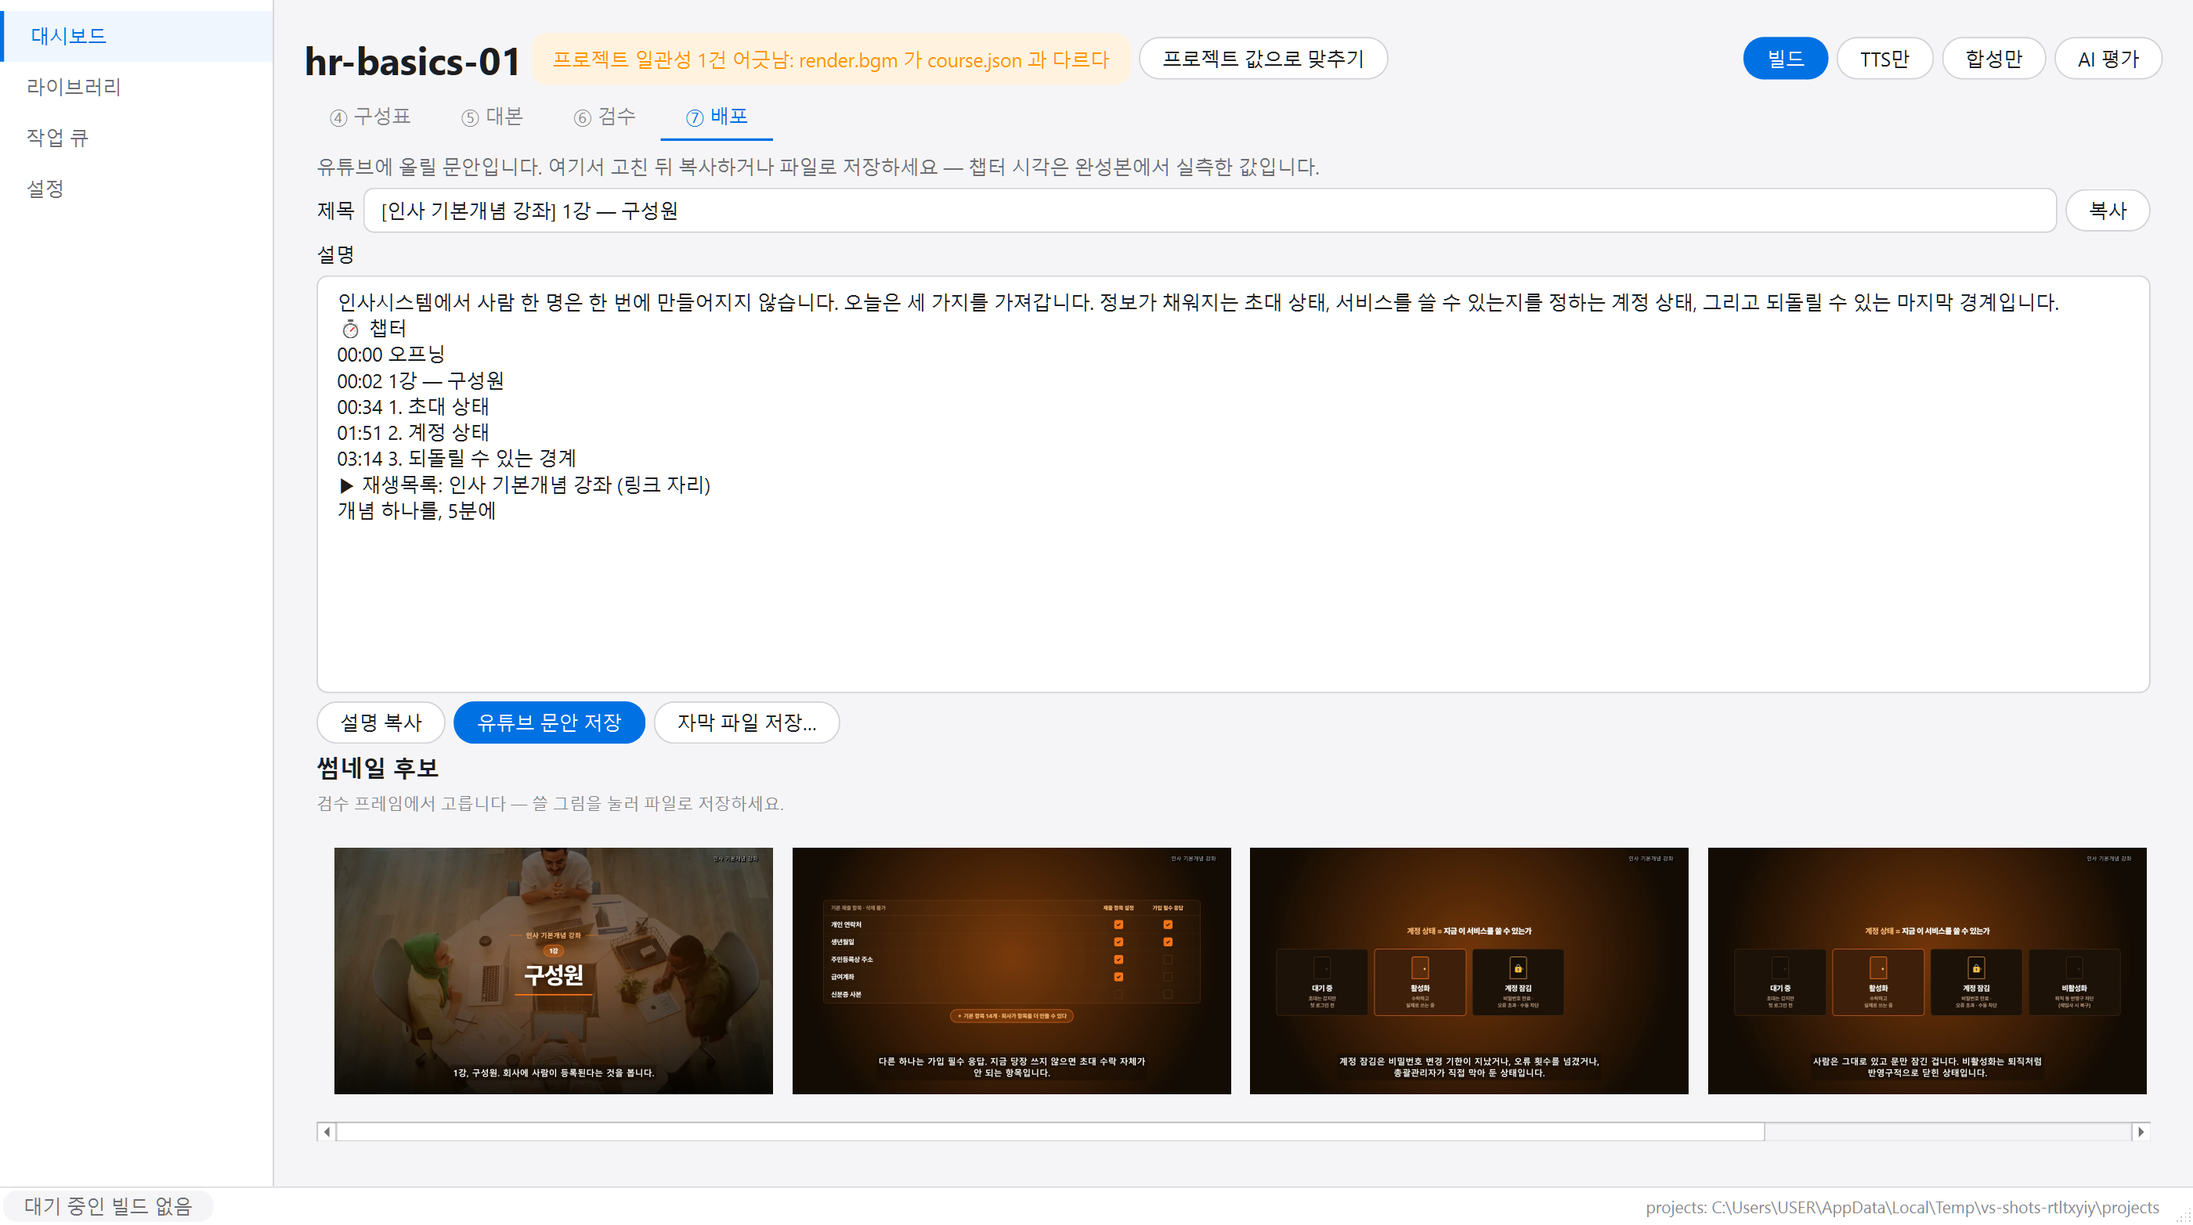
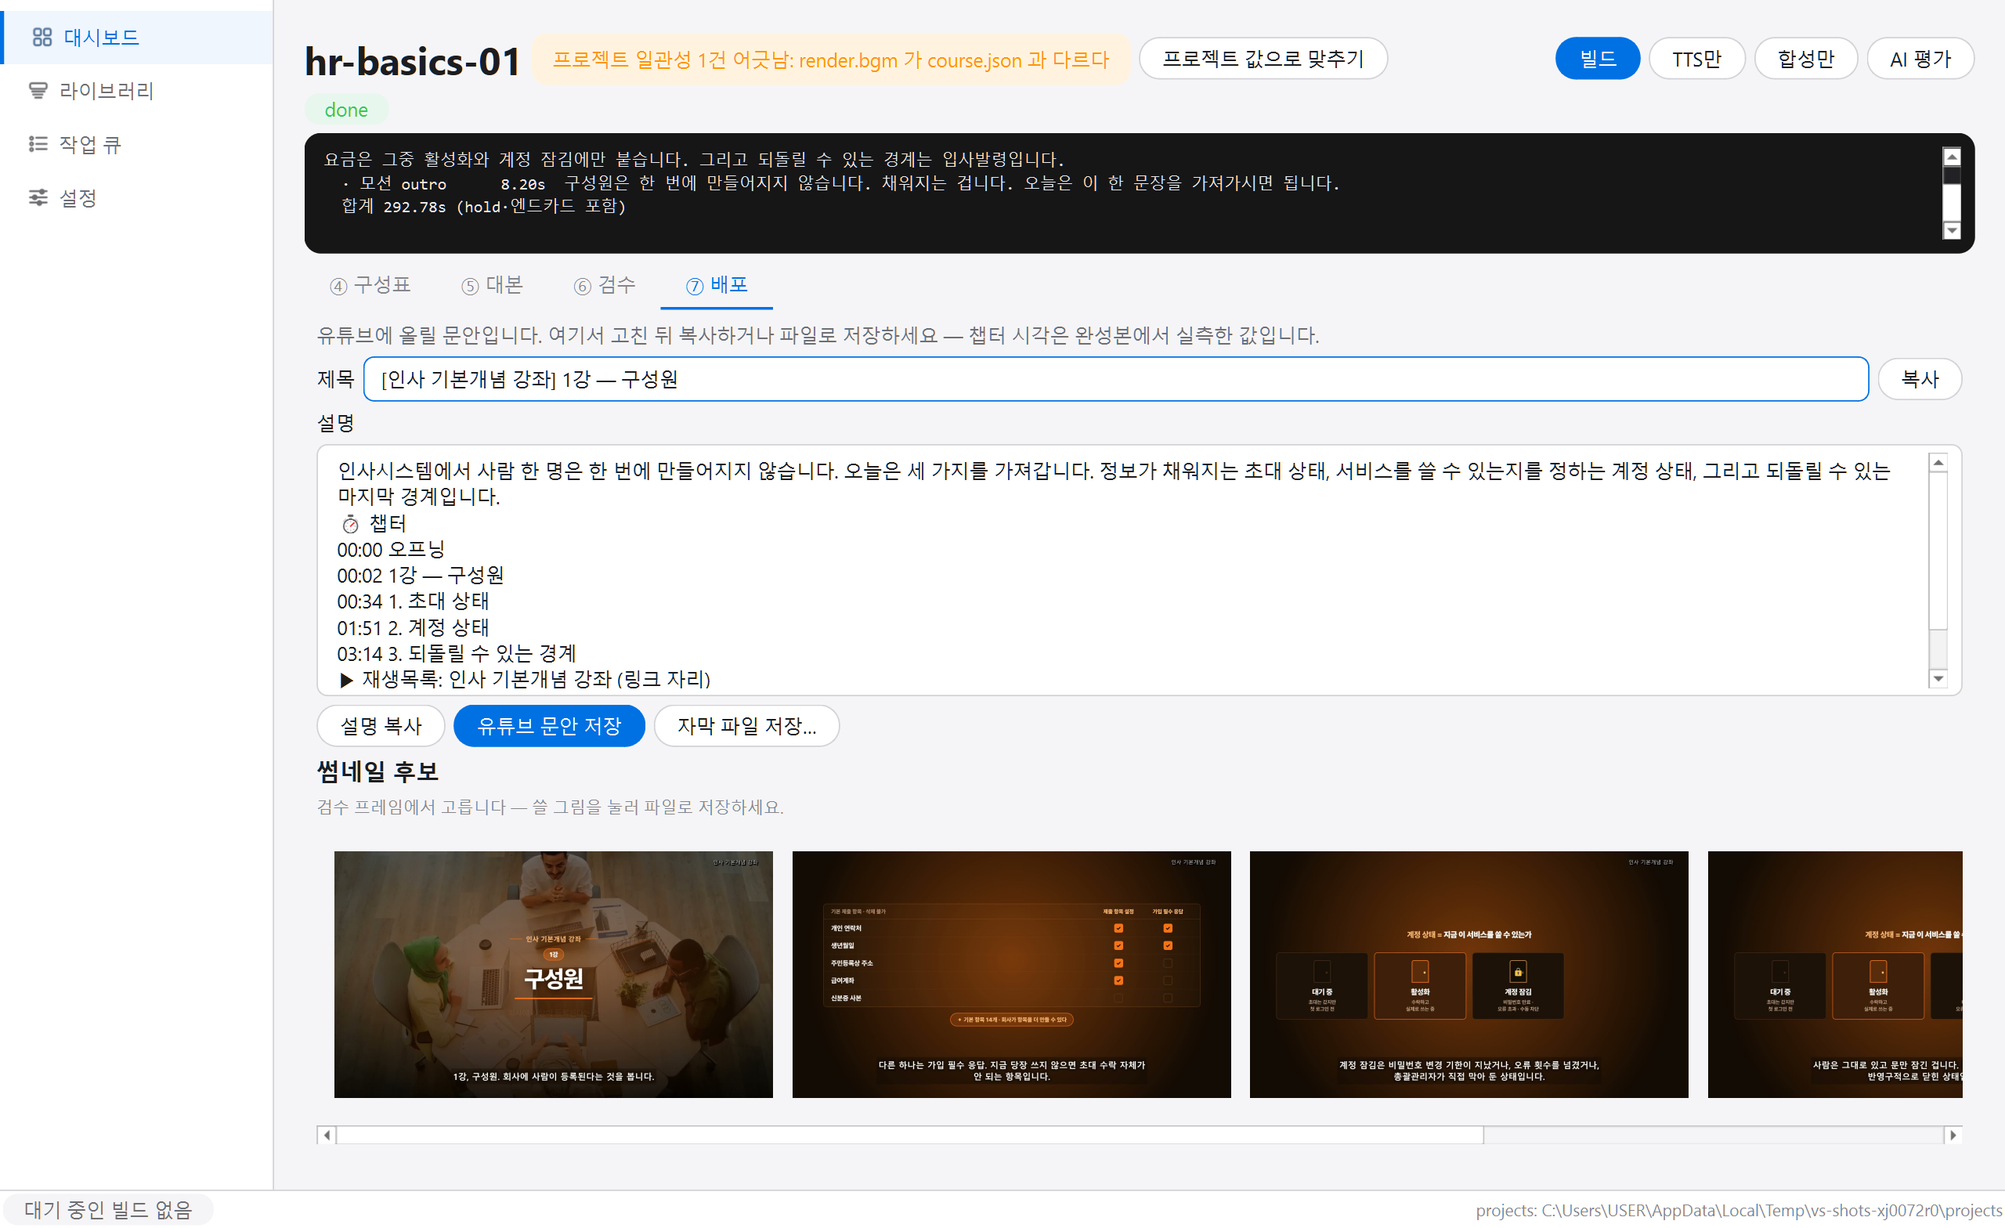
색 선택 대화상자 물듦 수정 + 아이콘 신설
## 색 선택 대화상자가 고르는 색으로 칠해졌다 (사용자 지적)

배경색(#0b1220)을 고르려고 열면 대화상자 전체가 그 색이 돼 글자가 안 보였고,
보조색(#a9c6ff)을 고르면 전체가 연파랑이 됐다. 원인 둘이 겹쳤다:

  1. `ColorButton.set_value` 가 `setStyleSheet("background: <색>")` 를 **선택자 없이** 걸었다.
     Qt 스타일시트는 자식 위젯으로 전파되므로 선택자 없는 규칙은 후손 전부에 적용된다.
  2. `QColorDialog.getColor(..., self)` — 부모가 그 버튼이라 대화상자가 후손이 됐다.

선택자를 붙이고(`ColorButton { ... }`) 부모를 `self.window()` 로 바꿨다. 색 피커는
버튼의 자식이 아니라 창 수준 모달이다.

같은 함정이 브랜드 킷 프리뷰에도 있었다 — 자식 라벨(kicker·title)을 가진 QFrame 에
선택자 없이 배경을 칠하고 있었다. 지금은 우연히 같은 색이라 티가 안 났을 뿐이다.

## 아이콘 — 코드로 그린다

이모지는 OS 폰트가 제각각으로 그려 08 §5 가 금지하고 테스트가 막는다. 그래서
아이콘이 필요해지면 답은 **QPainter 로 직접 그리기**다 (`app/icons.py`):
어느 PC 에서나 같은 그림이고, 색을 인자로 받고, 동결본에 넣을 파일이 없다.

  내비      대시보드(격자)·라이브러리(겹친 판)·작업 큐(점+줄)·설정(슬라이더)
  프로젝트  **그 프로젝트의 브랜드 색으로 칠한 필름 + 재생 삼각형**
            시리즈면 두 장을 겹쳐 '여러 편'을 드러낸다

색이 곧 프로젝트 정체성이라(팔레트가 타이틀 카드에 그대로 쓰인다) 목록에서 색만 보고
알아본다. `list_courses` 가 `brand`·`kind` 를 함께 준다.

함정 하나: `setDevicePixelRatio` 를 준 QPixmap 은 **논리 좌표가 이미 size** 다.
여기에 ratio 를 또 곱하면 두 배로 그려져 잘린다 (첫 렌더에서 실측).

pytest 141

diff --git a/app/icons.py b/app/icons.py
@@ -1,0 +1,135 @@
+"""아이콘 — **코드로 그린다**. 이모지·이미지 파일을 쓰지 않는다.
+
+이모지는 OS 폰트가 제멋대로 그린다(⬜→체크박스, 🔄→END 화살표 실측)는 이유로 08 §5 가
+금지했고 `tests/test_repo_hygiene.py` 가 집행한다. 그래서 아이콘이 필요해지면 답은
+**QPainter 로 직접 그리기**다:
+
+- 어느 PC 에서나 같은 그림 (폰트·아이콘 테마에 의존하지 않는다)
+- 색을 인자로 받으므로 프로젝트 브랜드 색으로 칠할 수 있다
+- 파일이 없으니 동결본에 뭘 더 넣을 것도 없다
+
+좌표는 24×24 격자에 그리고 필요한 크기로 렌더한다. 화면 배율(devicePixelRatio)을 곱해
+그려야 고DPI 에서 뭉개지지 않는다.
+"""
+
+from __future__ import annotations
+
+from PySide6.QtCore import QPointF, QRectF, Qt
+from PySide6.QtGui import (QColor, QIcon, QPainter, QPen, QPixmap, QPolygonF)
+
+GRID = 24.0
+
+
+def _canvas(size: int, ratio: float) -> tuple[QPixmap, QPainter]:
+    px = QPixmap(int(size * ratio), int(size * ratio))
+    px.setDevicePixelRatio(ratio)
+    px.fill(Qt.transparent)
+    p = QPainter(px)
+    p.setRenderHint(QPainter.Antialiasing, True)
+    # setDevicePixelRatio 를 준 QPixmap 은 **논리 좌표가 이미 size** 다 —
+    # 여기에 ratio 를 또 곱하면 두 배로 그려져 잘린다 (2026-08-22 실측)
+    p.scale(size / GRID, size / GRID)
+    return px, p
+
+
+def _stroke(p: QPainter, color: str, width: float = 1.9) -> None:
+    pen = QPen(QColor(color))
+    pen.setWidthF(width)
+    pen.setCapStyle(Qt.RoundCap)
+    pen.setJoinStyle(Qt.RoundJoin)
+    p.setPen(pen)
+    p.setBrush(Qt.NoBrush)
+
+
+# ── 낱개 그림 (24×24 격자) ───────────────────────────────────────────────────
+def _draw_dashboard(p: QPainter, color: str) -> None:
+    """네 칸 격자 — 여러 프로젝트를 한눈에."""
+    _stroke(p, color)
+    for x, y in ((4, 4), (13.5, 4), (4, 13.5), (13.5, 13.5)):
+        p.drawRoundedRect(QRectF(x, y, 6.5, 6.5), 1.6, 1.6)
+
+
+def _draw_library(p: QPainter, color: str) -> None:
+    """겹친 판 — 쌓여 있는 소재."""
+    _stroke(p, color)
+    p.drawRoundedRect(QRectF(4, 5, 16, 5.5), 1.6, 1.6)
+    p.drawLine(6, 13, 18, 13)
+    p.drawLine(7.5, 16.5, 16.5, 16.5)
+    p.drawLine(9, 19.5, 15, 19.5)
+
+
+def _draw_jobs(p: QPainter, color: str) -> None:
+    """점 + 줄 세 벌 — 줄 서 있는 작업."""
+    _stroke(p, color)
+    for y in (6.5, 12, 17.5):
+        p.drawEllipse(QRectF(4, y - 1.4, 2.8, 2.8))
+        p.drawLine(10, y, 20, y)
+
+
+def _draw_settings(p: QPainter, color: str) -> None:
+    """슬라이더 세 줄 — 톱니바퀴는 작게 그리면 뭉개진다."""
+    _stroke(p, color)
+    for y, knob in ((6.5, 15.5), (12, 8.5), (17.5, 13)):
+        p.drawLine(4, y, 20, y)
+        p.setBrush(QColor(color))
+        p.drawEllipse(QRectF(knob - 1.9, y - 1.9, 3.8, 3.8))
+        p.setBrush(Qt.NoBrush)
+
+
+def _draw_film(p: QPainter, color: str, *, stacked: bool) -> None:
+    """필름 한 칸 — 프로젝트. 시리즈면 두 장을 겹쳐 '여러 편'을 드러낸다."""
+    _stroke(p, color)
+    if stacked:
+        p.drawRoundedRect(QRectF(3, 4.5, 15, 12), 2.0, 2.0)
+        body = QRectF(6, 7.5, 15, 12)
+    else:
+        body = QRectF(4.5, 6, 15, 12)
+    p.setBrush(QColor(color))
+    p.setOpacity(0.14)
+    p.drawRoundedRect(body, 2.0, 2.0)
+    p.setOpacity(1.0)
+    _stroke(p, color)
+    p.drawRoundedRect(body, 2.0, 2.0)
+    # 재생 삼각형 — 이게 있어야 '영상'으로 읽힌다
+    cx, cy = body.center().x(), body.center().y()
+    p.setBrush(QColor(color))
+    p.setPen(Qt.NoPen)
+    p.drawPolygon(QPolygonF([QPointF(cx - 1.8, cy - 2.8), QPointF(cx + 2.8, cy),
+                             QPointF(cx - 1.8, cy + 2.8)]))
+
+
+_SHAPES = {
+    "dashboard": _draw_dashboard,
+    "library": _draw_library,
+    "jobs": _draw_jobs,
+    "settings": _draw_settings,
+}
+
+
+# ── 밖에서 쓰는 것 ───────────────────────────────────────────────────────────
+def nav(name: str, color: str, size: int = 18, ratio: float = 2.0) -> QIcon:
+    """내비 아이콘. 모르는 이름이면 빈 아이콘 — 화면이 죽지 않는다."""
+    draw = _SHAPES.get(name)
+    if draw is None:
+        return QIcon()
+    px, p = _canvas(size, ratio)
+    try:
+        draw(p, color)
+    finally:
+        p.end()
+    return QIcon(px)
+
+
+def project(brand: str, *, series: bool = False, size: int = 22,
+            ratio: float = 2.0) -> QIcon:
+    """프로젝트 아이콘 — **그 프로젝트의 브랜드 색**으로 칠한 필름.
+
+    색이 곧 프로젝트 정체성이라(팔레트가 타이틀 카드에 그대로 쓰인다) 목록에서
+    색만 보고도 어느 프로젝트인지 알아본다.
+    """
+    px, p = _canvas(size, ratio)
+    try:
+        _draw_film(p, brand or "#5B8DEF", stacked=series)
+    finally:
+        p.end()
+    return QIcon(px)

diff --git a/app/pages/brandkit.py b/app/pages/brandkit.py
@@ -34,6 +34,7 @@ class BrandKitTab(QWidget):
 
         # 간이 프리뷰 — palette 를 타이틀 카드 구도로
         self.preview = QFrame()
+        self.preview.setObjectName("kitPreview")
         self.preview.setFixedSize(480, 270)
         pv = QVBoxLayout(self.preview)
         pv.setAlignment(Qt.AlignCenter)
@@ -63,6 +64,7 @@ class BrandKitTab(QWidget):
         self.swatches: dict[str, tuple[QFrame, QLabel]] = {}
         for key, label in (("brand", "브랜드"), ("brandSoft", "보조"), ("bg", "배경")):
             chip = QFrame()
+            chip.setObjectName("swatch")
             chip.setFixedSize(30, 20)
             code = QLabel("")
             code.setObjectName("caption")
@@ -114,7 +116,9 @@ class BrandKitTab(QWidget):
         bg = pal.get("bg", _P["bg"])
         brand = pal.get("brand", _P["brand"])
         soft = pal.get("brandSoft", _P["brandSoft"])
-        self.preview.setStyleSheet(f"background: {bg}; border-radius: 12px;")
+        # 선택자 필수 — 자식 라벨까지 물들이지 않게 (Qt 스타일시트는 자식에 전파된다)
+        self.preview.setStyleSheet(f"#kitPreview {{ background: {bg};"
+                                   " border-radius: 12px; }")
         self.pv_kicker.setText(d.get("title", ""))
         self.pv_kicker.setStyleSheet(f"color: {soft}; font-size: 12px; letter-spacing: 2px;")
         self.pv_title.setText("1강 — 영상 제목 자리")
@@ -123,8 +127,8 @@ class BrandKitTab(QWidget):
             f"border-bottom: 2px solid {brand}; padding-bottom: 6px;")
         for key, value in (("brand", brand), ("brandSoft", soft), ("bg", bg)):
             chip, code = self.swatches[key]
-            chip.setStyleSheet(f"background: {value}; border: 1px solid #d7dae0;"
-                               " border-radius: 4px;")
+            chip.setStyleSheet(f"#swatch {{ background: {value};"
+                               " border: 1px solid #d7dae0; border-radius: 4px; }")
             code.setText(value)
         font = d.get("fontUrl") or d.get("font") or ""
         self.font_label.setText(font.rsplit("/", 1)[-1] if font else "프로젝트 기본 글꼴")

diff --git a/app/main_window.py b/app/main_window.py
@@ -2,11 +2,13 @@
 
 from __future__ import annotations
 
+from PySide6.QtCore import QSize, Qt
 from PySide6.QtWidgets import (QHBoxLayout, QLabel, QListWidget, QListWidgetItem,
                                QMainWindow, QStackedWidget, QStatusBar, QWidget)
 
 from core import env
 
+from . import icons, theme
 from .bridge import Bridge
 from .pages.course import CoursePage
 from .pages.dashboard import DashboardPage
@@ -34,9 +36,13 @@ class MainWindow(QMainWindow):
         self.nav = QListWidget()
         self.nav.setObjectName("nav")
         self.nav.setFixedWidth(200)
-        # 이모지 금지 — OS 폰트가 제각각으로 그린다 (09 G4). 텍스트만으로 충분하다
-        for label in ("대시보드", "라이브러리", "작업 큐", "설정"):
-            QListWidgetItem(label, self.nav)
+        # 이모지 금지 — OS 폰트가 제각각으로 그린다 (09 G4).
+        # 아이콘이 필요하면 **코드로 그린다** (app/icons.py) — 어느 PC 에서나 같은 그림이다
+        for key, label in (("dashboard", "대시보드"), ("library", "라이브러리"),
+                           ("jobs", "작업 큐"), ("settings", "설정")):
+            item = QListWidgetItem(icons.nav(key, theme.INK_2), label, self.nav)
+            item.setData(Qt.UserRole, key)
+        self.nav.setIconSize(QSize(18, 18))
         self.nav.setCurrentRow(0)
         lay.addWidget(self.nav)
 

diff --git a/app/pages/dashboard.py b/app/pages/dashboard.py
@@ -6,7 +6,7 @@ from PySide6.QtCore import Qt, Signal
 from PySide6.QtWidgets import (QFrame, QGridLayout, QHBoxLayout, QLabel, QProgressBar,
                                QPushButton, QScrollArea, QVBoxLayout, QWidget)
 
-from .. import theme
+from .. import icons, theme
 from ..bridge import error_text, run_bg
 
 
@@ -22,10 +22,21 @@ class CourseCard(QFrame):
         lay = QVBoxLayout(self)
         lay.setContentsMargins(18, 16, 18, 16)
         lay.setSpacing(8)
+        # 아이콘 + 제목 한 줄 — 아이콘은 **그 프로젝트의 브랜드 색**으로 칠한다.
+        # 색이 곧 정체성이라(타이틀 카드에 그대로 쓰인다) 목록에서 색만 보고 알아본다.
+        head = QHBoxLayout()
+        head.setSpacing(10)
+        mark = QLabel()
+        mark.setPixmap(icons.project(info.get("brand") or "",
+                                     series=not info.get("single")).pixmap(22, 22))
+        mark.setFixedWidth(24)
+        mark.setAlignment(Qt.AlignTop)
+        head.addWidget(mark)
         title = QLabel(info.get("title", info["id"]))
         title.setWordWrap(True)
         title.setStyleSheet("font-size: 16px; font-weight: 600;")
-        lay.addWidget(title)
+        head.addWidget(title, 1)
+        lay.addLayout(head)
         if info.get("single"):
             sub = QLabel("단발 영상")
             sub.setObjectName("caption")

diff --git a/app/widgets.py b/app/widgets.py
@@ -21,12 +21,16 @@ class ColorButton(QPushButton):
 
     def set_value(self, value: str) -> None:
         self.value = value or "#000000"
-        self.setStyleSheet(f"background: {self.value}; border: 1px solid #d2d2d7;"
-                           "border-radius: 8px;")
+        # **선택자를 반드시 붙인다.** Qt 스타일시트는 자식 위젯으로 전파되므로
+        # 선택자 없는 `background: <색>` 은 이 버튼을 부모로 삼는 모든 위젯을 물들인다.
+        # (2026-08-22 실측: 색 선택 대화상자 전체가 고르는 색으로 칠해져 글자가 안 보였다)
+        self.setStyleSheet(f"ColorButton {{ background: {self.value};"
+                           " border: 1px solid #d2d2d7; border-radius: 8px; }")
         self.setToolTip(self.value)
 
     def _pick(self) -> None:
-        color = QColorDialog.getColor(QColor(self.value), self)
+        # 부모는 **창**이다 — 버튼을 부모로 주면 위 스타일시트를 대화상자가 물려받는다.
+        color = QColorDialog.getColor(QColor(self.value), self.window(), "색 선택")
         if color.isValid():
             self.set_value(color.name())
             self.changed.emit(self.value)

diff --git a/core/facade.py b/core/facade.py
@@ -157,8 +157,16 @@ class Studio:
                 out.append(c)
                 continue
             episodes = [self._episode_summary(e) for e in c["episodes"]]
+            # 브랜드 색·종류 — 화면이 프로젝트 아이콘을 그 색으로 칠한다 (app/icons.py)
+            brand, kind = "", None
+            try:
+                doc = schema.load_json(self.root / c["id"] / "course.json")
+                brand = (doc.get("palette") or {}).get("brand", "")
+                kind = doc.get("kind")
+            except Exception:  # noqa: BLE001 — 색을 못 읽어도 목록은 떠야 한다
+                pass
             out.append({"id": c["id"], "title": c["title"], "episodeCount": c["episodeCount"],
-                        "scaffolded": len(episodes),
+                        "scaffolded": len(episodes), "brand": brand, "kind": kind,
                         "done": sum(1 for e in episodes if e["state"] == "done")})
         return out
 

diff --git a/docs/design/09_ui-review.md b/docs/design/09_ui-review.md
@@ -222,6 +222,8 @@
 | 2026-08-22 | 02·04·05·13·14 | **개발 언어 일소** — CLI 플래그(`--only tts`)·파일명(`youtube.md`·`course-intro.html`)·경로(`out/review.json`)·환경변수명(`VIDEO_STUDIO_DATA`)·개발 단계 번호(`5-5 에서`)·개발 용어(`params`·`diff`·`kebab-case`)를 담당자 언어로 |
 | 2026-08-22 | 02 | **Qt 표준 문구 한국어화** — `app/i18n.py` 신설. `Cancel`·`Yes`/`No` 는 우리 문자열이 아니라 Qt 가 그리므로 `qtbase_ko.qm` 을 얹어야 한다. 동결본에도 들어가도록 spec 에 명시 |
 | 2026-08-22 | 13·05·06 | **칩 5종 체계 적용**(색은 08 §5 — 3c). `run`(진행 중)이 주황이라 **정상 빌드가 경고처럼 보이던 것**을 파랑으로 옮기고, 주황은 `warn`(주의)이 가져갔다. 뜻이 "주의"인데 `run` 을 쓰던 3곳(설정의 .env 우선 경고 · 대본 저장 후 일관성 어긋남 · 회차 머리 일관성 칩)을 `warn` 으로. `course.py` 의 `STATE` 두 번째 값은 레인 칩을 색 점으로 바꾸며 죽은 값이라 제거 |
+| 2026-08-22 | 04·02 | **색 선택 대화상자가 고르는 색으로 물들었다.** `ColorButton` 이 `setStyleSheet("background: <색>")` 을 **선택자 없이** 걸었고 `QColorDialog` 의 부모가 그 버튼이라, Qt 스타일시트 전파로 대화상자 전체가 칠해져 글자가 안 보였다. 선택자(`ColorButton {...}`)를 붙이고 부모를 `self.window()` 로 바꿔 해결. 같은 함정이 브랜드 킷 프리뷰(자식 라벨이 있는 QFrame)에도 있어 함께 수정 |
+| 2026-08-22 | 내비·01 | **아이콘 신설 — 코드로 그린다** (`app/icons.py`). 이모지는 08 §5 가 금지하고 테스트가 막으므로, 필요해지면 답은 QPainter 다: 어느 PC 에서나 같은 그림이고 색을 인자로 받는다. 내비 4종 + **프로젝트 아이콘은 그 프로젝트의 브랜드 색으로 칠한 필름**(시리즈면 두 장 겹침) — 색이 곧 정체성이라 목록에서 색만 보고 알아본다. 함정: `setDevicePixelRatio` 를 준 QPixmap 은 논리 좌표가 이미 `size` 라, 배율을 또 곱하면 두 배로 그려져 잘린다(실측) |
 | 2026-08-22 | 전체 | **용어를 강의 전용에서 중립으로** — 이 앱은 강의만 만들지 않는다(홍보·광고·매뉴얼·일반). `강좌→프로젝트`·`회차→영상`·`커리큘럼→영상 목록`·`N부작→영상 N개`·`개설→만들기` 71건. **엔진 계약(course.json·episodes 키·파일명)은 그대로** — 화면 문구만 바꿨다 |
 | 2026-08-22 | 02 | **종류 선택 신설.** 엔진은 처음부터 강의·홍보·매뉴얼 골격을 갖고 있었는데 앱이 강의 하나만 쓰고 있었다. 종류를 고르면 골격·길이·색이 함께 따라온다 (`core/kinds.py`) |
 | 2026-08-22 | 02·04 | **기본 팔레트 교체 — 대비 미달이었다.** 옛 기본값 `#3E63DD/#93A4F5/#070b14` 은 **브랜드/배경 3.8:1** 로 WCAG 본문 기준(4.5:1) 미달. 실제 렌더 프레임에서 밑줄·강조가 배경에 묻히고 "밝은 장면" 검수 프레임조차 어두웠다. 종류별 팔레트를 **대비를 먼저 맞추고** 성격을 입혀 다시 잡았다(5.8~8.2:1). `tests/test_kinds.py` 가 기준을 지킨다 |
